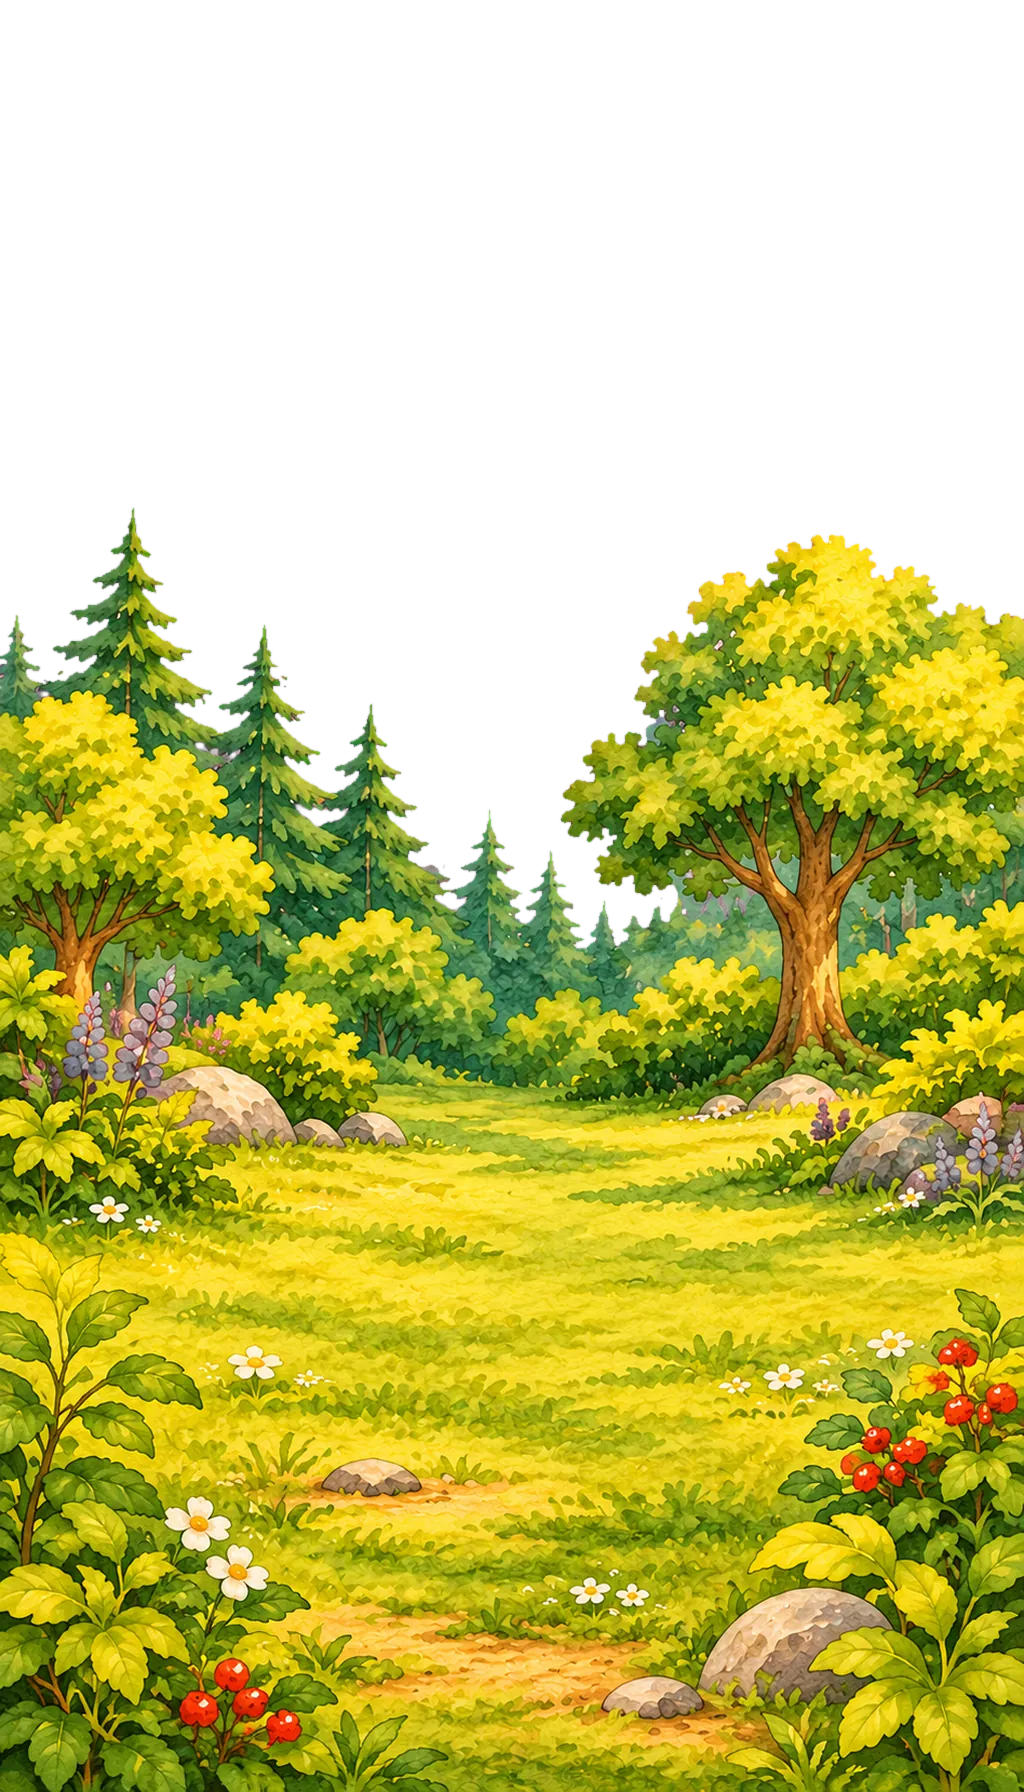
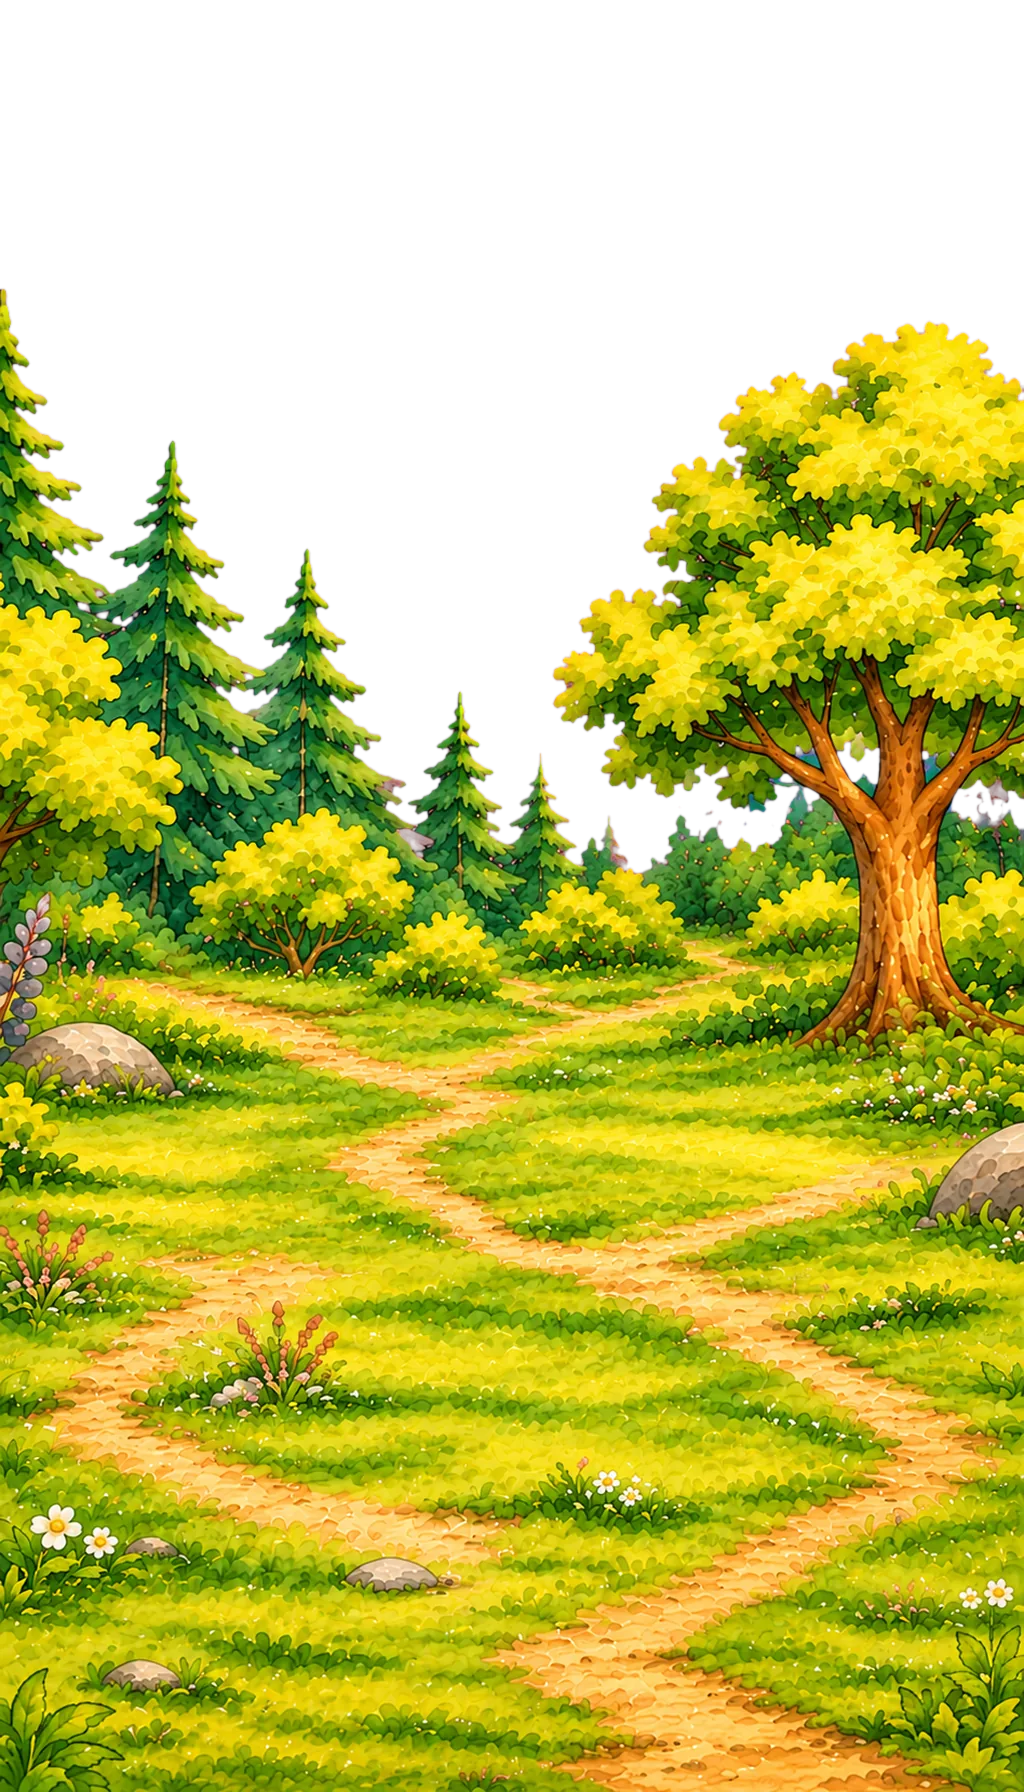
redizajn pozadine

diff --git a/js/app.js b/js/app.js
@@ -2,7 +2,7 @@
 import * as E from './economy.js';
 import { Music, Sfx } from './audio.js';
 
-const VERSION = '1.1.3';
+const VERSION = '1.2.0';
 const SAVE_KEY = 'tuma-save-v2';
 const $ = (q, el = document) => el.querySelector(q);
 const icon = r => `assets/icon/${E.RES[r].id}.webp`;
@@ -166,16 +166,22 @@ function renderHud() {
 
 
 // ---------- karta sela ----------
-// položaj na livadi: x = središte (% širine), y = dno (% visine), s = veličina (perspektiva), side = strana životinje
+// položaj na livadi u koordinatama pozadinske slike (0–1): x = središte, y = dno, s = veličina (perspektiva)
 const SPOTS = [
-  { x: 28, y: 86, s: 1.0, side: 1 },
-  { x: 74, y: 82, s: 0.95, side: -1 },
-  { x: 50, y: 73, s: 0.88, side: 1 },
-  { x: 23, y: 67, s: 0.8, side: 1 },
-  { x: 77, y: 65, s: 0.78, side: -1 },
-  { x: 36, y: 58.5, s: 0.68, side: 1 },
-  { x: 67, y: 56, s: 0.64, side: -1 },
+  { x: 0.33, y: 0.845, s: 1.0, side: 1 },   // jež
+  { x: 0.68, y: 0.84, s: 0.95, side: -1 }, // vjeverica
+  { x: 0.27, y: 0.715, s: 0.86, side: 1 },  // jazavac
+  { x: 0.68, y: 0.668, s: 0.8, side: -1 },  // lisica
+  { x: 0.58, y: 0.605, s: 0.72, side: 1 },  // medvjed
+  { x: 0.28, y: 0.578, s: 0.66, side: 1 },  // sova
+  { x: 0.78, y: 0.552, s: 0.6, side: -1 },  // sjenica
 ];
+// pretvara koordinate slike u piksele ekrana (pozadina je 'cover', poravnata dolje, srednji sloj ×1.10)
+function imgToScreen(ix, iy) {
+  const W = innerWidth, H = innerHeight, k = Math.max(W / 1024, H / 1792);
+  const dw = 1024 * k, dh = 1792 * k, x0 = (W - dw) / 2, y0 = H - dh;
+  return [W / 2 + (x0 + ix * dw - W / 2) * 1.10, H / 2 + (y0 + iy * dh - H / 2) * 1.10, dh * 1.10];
+}
 const village = $('#village');
 const mapIn = $('#mapIn');
 const mapWrap = document.createElement('div');
@@ -199,30 +205,31 @@ sign.addEventListener('click', () => { const k = firstLocked(); if (k >= 0) open
 mapWrap.appendChild(sign);
 
 function layoutMap() {
-  const W = mapIn.clientWidth, H = mapIn.clientHeight;
+  const W = innerWidth;
   E.LOCS.forEach((L, i) => {
     const r = mapEls[i], sp = SPOTS[i];
     const nw = r.l.naturalWidth, nh = r.l.naturalHeight;
     if (!nw) return;
+    const [X, Y, DH] = imgToScreen(sp.x, sp.y);
     const asp = nw / nh;
-    let h = H * 0.11 * sp.s, w = h * asp;
-    const maxW = W * 0.42 * sp.s;
+    let h = DH * 0.085 * sp.s, w = h * asp;
+    const maxW = Math.min(W, DH * 0.6) * 0.42 * sp.s;
     if (w > maxW) { w = maxW; h = w / asp; }
     r.l.style.width = w + 'px'; r.l.style.height = h + 'px';
-    r.b.style.left = sp.x + '%';
-    r.b.style.top = (sp.y / 100 * H - h) + 'px';
-    r.b.style.zIndex = Math.round(sp.y);
-    const ah = Math.max(H * 0.06 * sp.s, h * 0.62);
+    r.b.style.left = X + 'px';
+    r.b.style.top = (Y - h) + 'px';
+    r.b.style.zIndex = Math.round(sp.y * 100);
+    const ah = Math.max(DH * 0.045 * sp.s, h * 0.62);
     r.a.style.height = ah + 'px';
     r.a.style.left = sp.side > 0 ? (w - ah * 0.25) + 'px' : (-ah * 0.5) + 'px';
     r.a.style.animationDelay = (-i * 0.7) + 's';
   });
   const k = firstLocked();
   if (k >= 0) {
-    const sp = SPOTS[k];
-    sign.style.left = sp.x + '%';
-    sign.style.top = (sp.y / 100 * H - 70) + 'px';
-    sign.style.zIndex = Math.round(sp.y);
+    const [X, Y] = imgToScreen(SPOTS[k].x, SPOTS[k].y);
+    sign.style.left = X + 'px';
+    sign.style.top = (Y - 70) + 'px';
+    sign.style.zIndex = Math.round(SPOTS[k].y * 100);
   }
 }
 function renderMap(force) {

diff --git a/css/style.css b/css/style.css
@@ -283,7 +283,7 @@ body.intro #hud, body.intro #village, body.intro #tabs, body.intro #buyMode { op
 
 /* ---------- karta sela ---------- */
 #map { position: fixed; inset: 0; z-index: 2; pointer-events: none; transition: opacity .45s ease; }
-#mapIn { position: absolute; left: 50%; top: 0; bottom: 0; width: min(100vw, 62vh); transform: translateX(-50%); }
+#mapIn { position: absolute; inset: 0; }
 #mapWrap { position: absolute; inset: 0; will-change: transform; }
 .mloc {
   position: absolute; transform: translateX(-50%); background: none; padding: 0;

diff --git a/sw.js b/sw.js
@@ -1,5 +1,5 @@
 // Tuma — service worker
-const VERSION = 'tuma-v1.1.3';
+const VERSION = 'tuma-v1.2.0';
 const CORE = [
   './',
   './assets/bg/front.webp',
